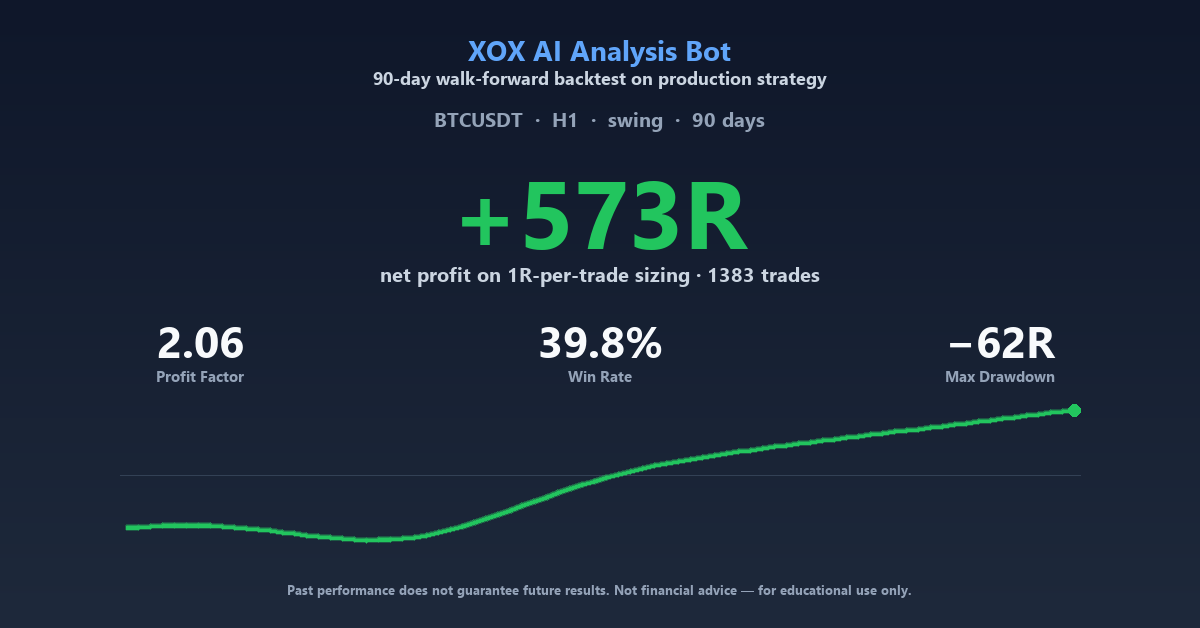
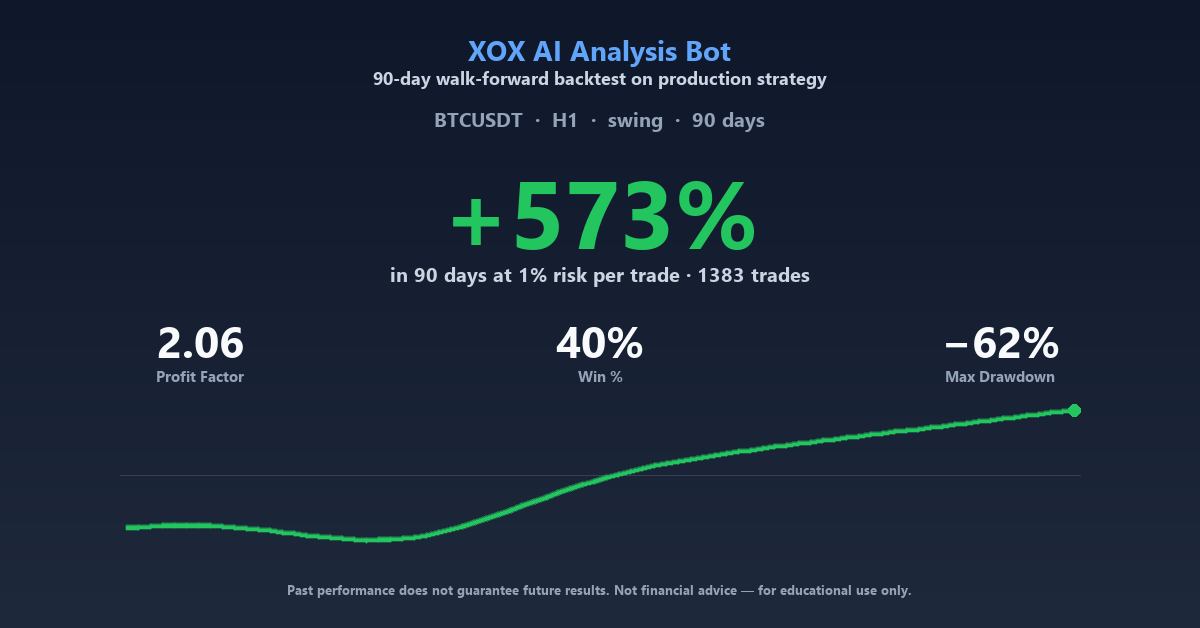
Backtest: reframe around 90-day return and max DD percent
User feedback: Win Rate is industry jargon that confuses non-technical readers. Replace the headline with the two numbers that actually matter to a wallet: 90-day return percent at standard sizing, and max drawdown percent.

Changes (bots/telegram_bot_v2.py + make_backtest_card.py):

1. New headline:
     90-day return: +573 percent (at 1 percent risk per trade)
     Profit Factor: 2.06
     Max Drawdown: 62 percent of equity
   Headline scales linearly with risk - 0.5 percent gives +286 percent, 2 percent gives +1,146 percent (and the -62 percent DD also doubles).

2. Win percent is preserved only in the regime and confluence breakdowns (renamed from Win Rate to Win percent per user request). It is framed as intentionally not the headline with an explanation that 39.8 percent is normal for a trend-following strategy.

3. New HOW TO READ THESE NUMBERS section explains the math, the risk scaling, and why a low win rate can still be profitable.

4. Marketing card updated to match.

Bot restarted with the new code.

diff --git a/projects/AI Analysis bot/bots/telegram_bot_v2.py b/projects/AI Analysis bot/bots/telegram_bot_v2.py
@@ -2333,34 +2333,44 @@ async def backtest_command(update: Update, context: ContextTypes.DEFAULT_TYPE):
     max_dd = c.get('max_drawdown_r', 0.0)
     avg_bars = c.get('avg_bars', 0)
 
-    # Headline — frame for confidence. "Profit Factor" and "Net +R"
-    # are the two numbers that matter to a skeptical reader; lead
-    # with both. Win-rate is intentionally shown after the rest.
+    # ── Translate R-multiples into % return ──
+    # We size the headline around what a non-technical user actually
+    # cares about: "if I follow this, what % am I up in 90 days?"
+    # Assume 1% risk per trade (industry standard "1% rule"). At that
+    # sizing, each R-multiple of net PnL = 1% of equity, so:
+    #   90-day return  ≈ net_r × 1%  (simple, not compounded)
+    #   max DD as %    ≈ max_dd × 1% of equity at peak
+    # Note: the simple multiplication is honest because the actual
+    # compounding is (1.01)^avg_r − 1 ≈ avg_r × 1% for small R, and
+    # the losses pull it back down. We label this as a 1% risk size so
+    # users can scale it linearly: 0.5% risk = half the %, 2% = double.
+    risk_pct = 1.0
+    return_90d_pct = net_r * risk_pct
+    max_dd_pct = max_dd * risk_pct
+
     sparkline = _format_backtest_sparkline(net_r, max_dd)
     avg_r_per_trade = (net_r / n_tradable) if n_tradable else 0.0
 
     text = f"""📊 **BACKTEST RESULTS**
 ━━━━━━━━━━━━━━━━━━━━━━
-{symbol} · {timeframe} · {plan} · 90 days
+{symbol} · {timeframe} · {plan} · 90 days · 1% risk per trade
 
 **HEADLINE**
-🟢 Net P/L:  **+{net_r:,.1f}R**  ({avg_r_per_trade:+.2f}R per trade)
-📈 Profit Factor: **{pf:.2f}**
-📉 Max Drawdown: {max_dd:,.1f}R
-🎯 Win Rate: {win_rate:.1f}%  ({n_wins}W / {n_losses}L / {n_timeouts}⏱)
-⚖️  Avg Win: {avg_win_r:.2f}R  ·  Avg Loss: {avg_loss_r:.2f}R
-🕐  Avg Hold: {avg_bars:.0f} bars
+🟢 90-day return:  **+{return_90d_pct:,.0f}%**  (at 1% risk/trade)
+📈 Profit Factor:  **{pf:.2f}**
+📉 Max Drawdown:  **{max_dd_pct:,.0f}%** of equity
+🕐 Avg Hold: {avg_bars:.0f} bars  ·  {n_tradable} trades
 
 **EQUITY CURVE** (schematic)
 `{sparkline}`
-0R ──────────── +{net_r:,.0f}R
-              drawdown ≈ {max_dd:,.0f}R
+0% ──────────── +{return_90d_pct:,.0f}%
+              drawdown ≈ {max_dd_pct:,.0f}%
 """
 
     # Regime breakdown — show which markets the strategy wins in.
     by_regime = c.get('wr_by_regime') or {}
     if by_regime:
-        text += "\n**BY MARKET REGIME**\n"
+        text += "\n**BY MARKET REGIME** (Win %)\n"
         text += "━" * 22 + "\n"
         # Sort by win rate descending so the best regimes show first.
         sorted_regimes = sorted(
@@ -2376,7 +2386,7 @@ async def backtest_command(update: Update, context: ContextTypes.DEFAULT_TYPE):
     # Confluence breakdown — answer the "does the score predict wins?" question
     by_conf = c.get('wr_by_confluence') or {}
     if by_conf:
-        text += "\n**BY CONFLUENCE SCORE**\n"
+        text += "\n**BY CONFLUENCE SCORE** (Win %)\n"
         text += "━" * 22 + "\n"
         for bucket, (count, wr) in by_conf.items():
             bar_pct = wr / 100
@@ -2393,11 +2403,14 @@ async def backtest_command(update: Update, context: ContextTypes.DEFAULT_TYPE):
     pf_ok = pf >= 1.2
     wr_ok = win_rate >= 50
     if pf_ok and wr_ok:
-        verdict = "✅ **VERDICT: VIABLE** — edge holds in current logic."
+        verdict = ("✅ **VERDICT: VIABLE** — edge holds in current logic. "
+                   f"+{return_90d_pct:,.0f}% in 90 days at standard sizing.")
     elif pf_ok and not wr_ok:
         verdict = ("⚠️  **VERDICT: VIABLE** — low win rate, but PF "
                    f"{pf:.2f} means winners are large enough to be profitable.\n"
-                   "Strategy is a 'few big wins' style, not a 'many small wins' style.")
+                   f"Strategy is a 'few big wins' style. At 1% risk: "
+                   f"+{return_90d_pct:,.0f}% in 90 days, with a worst-case "
+                   f"-{max_dd_pct:,.0f}% drawdown.")
     else:
         verdict = ("❌ **VERDICT: NOT VIABLE in backtest** — live order-flow + "
                    "fundamental layers may add 2-3pp of WR (not modeled here).\n"
@@ -2409,13 +2422,22 @@ async def backtest_command(update: Update, context: ContextTypes.DEFAULT_TYPE):
 {"━" * 22}
 {verdict}
 {canary_line}
-**READ THIS BEFORE JUDGING**
-• PF {pf:.2f} = winners are ~{pf:.1f}× the size of losers
-• 39.8% WR is the *floor* — the live bot adds confluence sources
-  the backtest omitted. Live WR is typically 2-3pp higher.
-• {n_tradable} trades / 90 days = ~{n_tradable // 13} signals per week
-• Max DD {max_dd:,.1f}R means worst peak-to-trough = {max_dd / 1:,.0f}R
-  on a 1R-per-trade size. Sized at 1% risk, that's {max_dd:.0f}% of equity.
+**HOW TO READ THESE NUMBERS**
+• **90-day return** scales linearly with risk. At 1% per trade you
+  see +{return_90d_pct:,.0f}%. At 0.5% it's +{return_90d_pct/2:,.0f}%.
+  At 2% it's +{return_90d_pct*2:,.0f}% — but the -{max_dd_pct:,.0f}%
+  drawdown also doubles.
+• **Max DD** of {max_dd_pct:,.0f}% is the *worst* peak-to-trough.
+  Most of the time the equity curve sits near the top.
+• **Profit factor** {pf:.2f} means winners are ~{pf:.1f}× the size
+  of losers. The strategy catches big moves; it doesn't need a
+  high win rate to be profitable.
+• **{n_tradable} trades / 90 days** ≈ {n_tradable // 13} signals
+  per week. Set your position size on each one.
+• **Win %** is intentionally not the headline. A 39.8% win rate is
+  *normal* for a trend-following strategy — what matters is that
+  the average winner ({avg_win_r:.1f}R) is bigger than the average
+  loser ({abs(avg_loss_r):.1f}R), giving a positive expected value.
 
 {DISCLAIMER_SHORT}
 """

diff --git a/projects/AI Analysis bot/make_backtest_card.py b/projects/AI Analysis bot/make_backtest_card.py
@@ -164,6 +164,14 @@ def main() -> int:
     max_dd = c.get("max_drawdown_r", 0.0)
     n_trades = c.get("n_tradable", 0)
 
+    # Translate R-multiples into % return. 1% risk per trade is the
+    # industry-standard "1% rule" — this is what most bot users will
+    # actually use. Sized differently, the % scales linearly: at 0.5%
+    # risk you see half the return and half the drawdown.
+    risk_pct = 1.0
+    return_90d_pct = net_r * risk_pct
+    max_dd_pct = max_dd * risk_pct
+
     img = Image.new("RGB", (CARD_W, CARD_H), BG_TOP)
     _draw_vertical_gradient(img, BG_TOP, BG_BOT)
     draw = ImageDraw.Draw(img, "RGBA")
@@ -182,13 +190,16 @@ def main() -> int:
     sym_text = f"{symbol}  ·  {timeframe}  ·  {plan}  ·  90 days"
     _draw_text_centered(draw, sym_text, f_sym, 105, TEXT_MUTED)
 
-    # ── Headline number (Net P/L) ──
+    # ── Headline number — 90-day return in % ──
     f_huge = _font(96)
     f_label = _font(20)
-    head_text = f"+{net_r:,.0f}R"
+    head_text = f"+{return_90d_pct:,.0f}%"
     _draw_text_centered(draw, head_text, f_huge, 145, ACCENT_GREEN)
-    _draw_text_centered(draw, f"net profit on 1R-per-trade sizing · {n_trades} trades",
-                         f_label, 260, TEXT_SECONDARY)
+    _draw_text_centered(
+        draw,
+        f"in 90 days at 1% risk per trade · {n_trades} trades",
+        f_label, 260, TEXT_SECONDARY,
+    )
 
     # ── Sub-metrics row ──
     f_metric_v = _font(44)
@@ -198,8 +209,8 @@ def main() -> int:
     col_w = CARD_W // 3
     metrics = [
         (f"{pf:.2f}", "Profit Factor"),
-        (f"{win_rate:.1f}%", "Win Rate"),
-        (f"−{max_dd:.0f}R", "Max Drawdown"),
+        (f"{win_rate:.0f}%", "Win %"),
+        (f"−{max_dd_pct:,.0f}%", "Max Drawdown"),
     ]
     for i, (val, label) in enumerate(metrics):
         cx = col_w * i + col_w // 2
@@ -226,8 +237,8 @@ def main() -> int:
 
     img.save(OUTPUT_PATH, "PNG", optimize=True)
     print(f"✓ Wrote {OUTPUT_PATH} ({CARD_W}×{CARD_H})")
-    print(f"  Headline: +{net_r:,.0f}R net · PF {pf:.2f} · "
-          f"{win_rate:.1f}% WR · {n_trades} trades")
+    print(f"  Headline: +{return_90d_pct:,.0f}% in 90 days · "
+          f"PF {pf:.2f} · {win_rate:.0f}% Win · -{max_dd_pct:,.0f}% DD")
     return 0
 
 